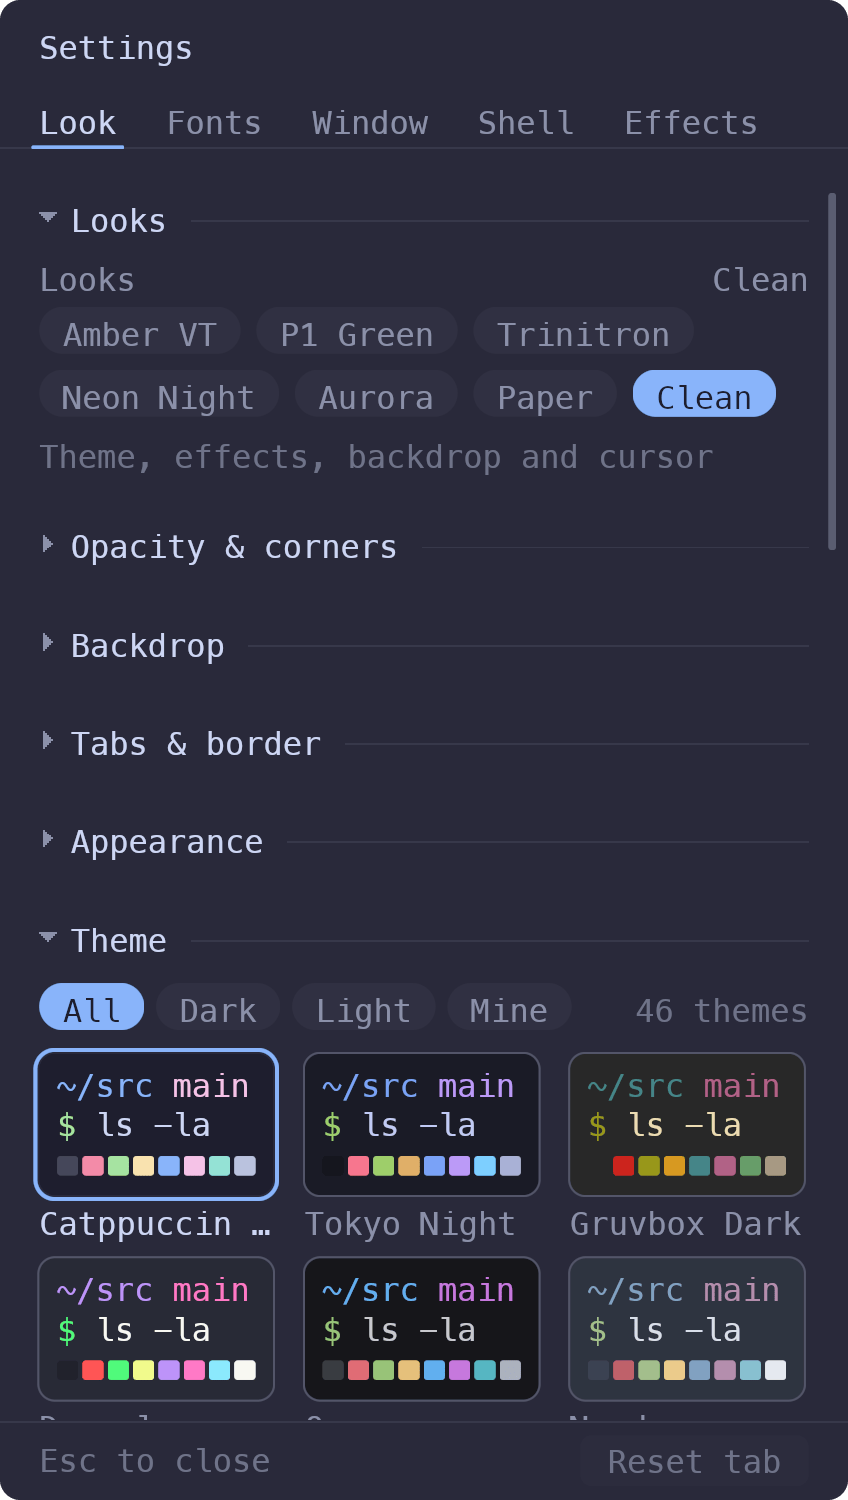
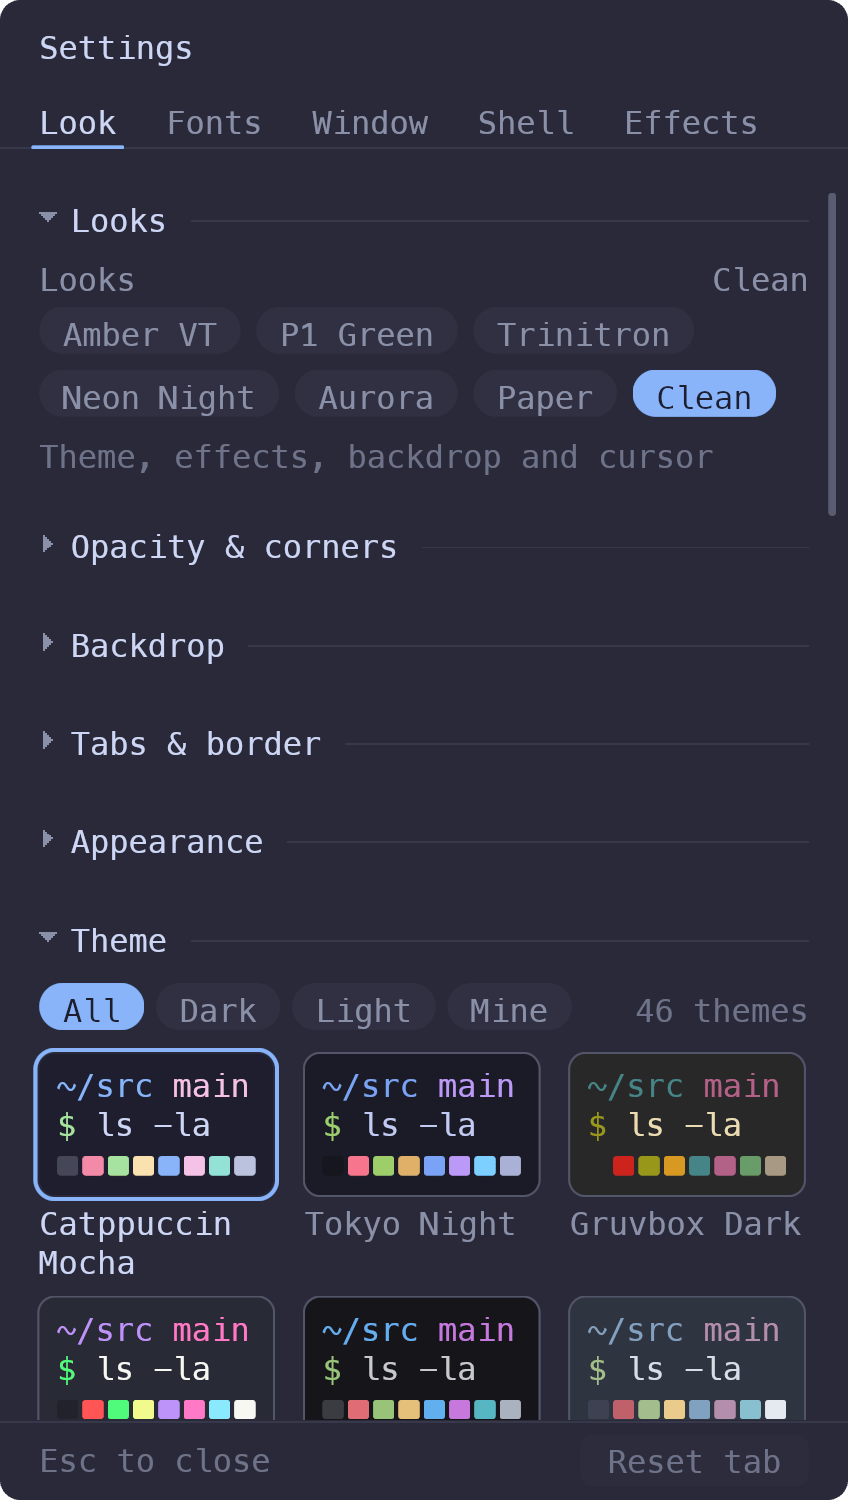
release: v0.28.0 — the fix-and-polish release (~60 fixes, OpenGL fallback, faster F9, cheaper frames)
See docs/release-notes/v0.28.0.md. Ten parallel reviews (renderer, VT,
shell/PTY, input, config, Settings, performance, selection, windows/Wayland,
visuals v2) — each fix with a test that failed first; integrated one branch
at a time with the full gate.

Checked live before tagging, on nested displays only: the release binary
on lavapipe Vulkan under KWin and on GL with no Vulkan ICD at all (renders,
"wgpu · OpenGL"), idle 0 ms CPU per 10 s on both; F9 from another focused
window takes the focus 6/6 under KWin. 1523 tests pass. The README's
Settings screenshot is re-rendered (wider steppers, full theme names).

Claude-Session: https://claude.ai/code/session_018rMtUwjGXA9PqrS7RQ15Qg

diff --git a/CHANGELOG.md b/CHANGELOG.md
@@ -7,6 +7,121 @@ and this project adheres to [Semantic Versioning](https://semver.org/spec/v2.0.0
 
 ---
 
+## [0.28.0] — 2026-10-09
+
+**The fix-and-polish release.** Ten parallel reviews of the whole codebase —
+renderer, terminal emulation, shell, input, config, Settings, performance,
+selection, windows and the v0.27 visuals — found and fixed about sixty bugs,
+including a crash that v0.27.0 has. JeTTY now also runs on machines without
+Vulkan, F9 is faster and always takes the keyboard focus, and every frame costs
+less CPU.
+
+### Added
+- **Runs without Vulkan:** on machines with no Vulkan driver (VMs, older GPUs,
+  software rendering) JeTTY draws through OpenGL 3.3 / OpenGL ES 3.0, on X11 and
+  Wayland — it used to open an unpainted window. Where the only Vulkan driver is
+  a software one (lavapipe) but the GPU has an OpenGL driver, JeTTY uses the GPU.
+  `WGPU_BACKEND=gl` forces OpenGL, e.g. around a broken Vulkan driver.
+- **Settings from the keyboard:** Tab / Shift+Tab move through every control,
+  arrows adjust, Space / Enter toggle or press; palette links leave the focus on
+  their control.
+- **Tabs:** drag a tab along the bar to reorder it, scroll the mouse wheel over
+  the bar to switch tabs, middle-click a tab to close it.
+- **Copy-mode `Ctrl+V`** selects a rectangle; `v` / `V` / `Ctrl+V` switch kinds
+  keeping the anchor.
+- Double-clicking a URL selects the whole URL.
+- Ctrl-hovering a hyperlink whose text hides its real address shows where a
+  click would go.
+- `jetty --check-config` lists every config and theme problem; a configuration
+  reference, `docs/configuration.md`, covers every key (checked against the code
+  by a test).
+- Terminal: programs that ask which terminal this is (`CSI > q`: tmux,
+  notcurses, yazi…) are told `JeTTY(<version>)`; reverse-video screen mode
+  (`CSI ? 5 h` — vim's `visualbell`, terminfo `flash`); sixel support is
+  reported to programs that probe for it (lsix, tmux 3.4+); modes 47 / 1047 /
+  1048.
+- powerlevel10k: the integration line turns on p10k's own prompt marks — no
+  need to edit `~/.p10k.zsh` (a setting there is respected).
+- Picking the same backdrop image again reloads it if the file changed.
+
+### Changed
+- **Faster F9:** the summon hotkey no longer wakes JeTTY 20 times a second, and
+  F9 shows / hides the window up to 50 ms sooner (hide: 46 → 3 ms).
+- **Faster start, less memory on multi-GPU laptops:** JeTTY no longer loads
+  Vulkan drivers for GPUs it won't use (GPU setup 74 → 20 ms, ~90 MB less memory;
+  the NVIDIA GPU is left alone under the default low-power pick), and wgpu no
+  longer compiles unused validation shaders (~2 ms).
+- **Cheaper frames:** the terminal snapshot costs about half as much, and the tab
+  bar, status bar and cursor/scrollbar layer draw in one pass (a 240×70 typing
+  frame: 0.51 → 0.43 ms CPU). Large PNG backdrops load with about half the
+  memory.
+- `$SHELL` inside JeTTY names the shell JeTTY runs, so tmux, `vim :sh` and
+  `sudo -s` open the same shell.
+- Config values are read in any letter case (`tab_style = "Underline"`); unknown
+  or misspelled keys, values, theme and font names are reported with the closest
+  valid spelling (an unknown value no longer resets the live setting on reload);
+  out-of-range numbers are reported; TOML errors give line and column. Themes can
+  be named the way Settings shows them (`"Solarized Light"`).
+- The command palette ranks a command's exact name first, then whole-word
+  matches, then scattered letters.
+- Release builds' `jetty --version` names their commit instead of "dev".
+- The welcome screen's tip points at the command palette shortcut.
+
+### Fixed
+- **Crashes and hangs:** JeTTY could crash when a program scrolled a region
+  below a fixed top line while you were scrolled back (v0.27.0 too), and the view
+  drifted up a line per scroll. A new tab from a directory on a dead network
+  mount froze JeTTY. A shell that dies right after starting (a broken `~/.zshrc`)
+  closed JeTTY — its error now stays on screen and the next available shell
+  opens. With no usable GPU, or no shell at all, JeTTY ran invisibly or exited
+  "successfully" — it now says what to fix and exits with status 1.
+- **F9 and windows:** under KWin, F9 could bring JeTTY to the front while your
+  typing still went to the previous window. Changing the display scale and back
+  shrank windows (to 379×213 in a corner). On Wayland, hiding left a frozen
+  window on screen. At the minimum window width the tab ran under the window
+  controls.
+- **Keyboard and mouse:** Ctrl with punctuation on non-US layouts sent the US
+  key's control code — Ctrl+; on Turkish-Q and Ctrl+# on German sent SIGQUIT to
+  the running program. A click on the status strip clicked the program's bottom
+  row (htop's F9 Kill / F10 Quit). A `[keys]` binding couldn't take another
+  action's default shortcut depending on declaration order. F13–F24 showed as
+  "Unknown".
+- **Shell integration:** Enter on an empty prompt after a failed command marked
+  that prompt failed (powerlevel10k, bash); bash users' own `PROMPT_COMMAND`
+  hooks always saw success. Pastes over 64 MiB vanished.
+- **Terminal emulation:** color queries (OSC 4/10/11/12) reported the theme's
+  colors after a program set its own (neovim, bat, delta picked the wrong
+  background); deleting characters past the line end erased text left of the
+  cursor; editing through half of a wide character left the other half behind;
+  copying a row whose wide character wrapped pasted a wrong character; cursor
+  motion at the margins and after a full line now follows xterm; replies inside
+  a synchronized update keep their order.
+- **Rendering:** translucent themes on OpenGL; CRT, the CRT Looks and the aurora
+  backdrop went black on GPUs that can't render half-float textures; a GPU error
+  repeating every frame flooded the log. Animated backdrops redrew the whole
+  background on every frame while typing; phone photos showed sideways (EXIF);
+  in Dropdown mode the Phosphor glow, window border, bell rim and command pulse
+  drew outside the sliding window; turning CRT off freed none of its GPU memory
+  (~10 MB). A `font_family` that isn't installed rendered the grid in a
+  proportional font — JeTTY now falls back to a monospace one.
+- **Selection, search, copy-mode:** a search with thousands of matches jumped
+  far up into history; a selected wide character was highlighted on one half;
+  copy-mode treated wide characters as two cells, hid the cursor under its pill,
+  left the view in history on exit and lost the cursor on resize; pasting while
+  scrolled back didn't jump to the prompt; Run in New Tab kept the border of an
+  indented box; hint mode split quoted paths and UUIDs.
+- **Config and themes:** a theme file broken mid-edit flipped the terminal to the
+  default theme (the last good version stays now); Settings could replace a
+  read-only `config.toml`; editing `summon_hotkey` while running did nothing
+  visible (it now says it needs a restart).
+- **Settings, palette, help:** the font-size steppers cut their value at 1.25×
+  and 1.5×; a narrow Settings window overlapped its controls and hid tabs; the
+  theme gallery showed 46 themes under 38 names; palette links to a control
+  hidden in the current mode landed on nothing; touchpad scrolling in the palette
+  and font lists raced or stalled; "Open Settings…" didn't bring an open Settings
+  window forward; the help overlay's dividers struck through its headings; the
+  welcome splash didn't scale on HiDPI.
+
 ## [0.27.0] — 2026-10-09
 
 **Visuals v2.** One-click Looks, new themes, a background layer, a faster and

diff --git a/docs/release-notes/v0.28.0.md b/docs/release-notes/v0.28.0.md
@@ -1,0 +1,65 @@
+# JeTTY v0.28.0
+
+**The fix-and-polish release: about sixty bugs fixed, JeTTY runs without
+Vulkan, F9 is faster and always takes the focus, and every frame costs less
+CPU.**
+
+Ten parallel reviews went through the whole codebase — renderer, terminal
+emulation, shell, input, config, Settings, performance, selection, windows and
+the v0.27 visuals. Every fix comes with a test that failed before it.
+
+## Highlights
+
+- **Runs without Vulkan.** On VMs, older GPUs and software rendering JeTTY now
+  draws through OpenGL 3.3 / OpenGL ES 3.0 on X11 and Wayland — before, it
+  opened an unpainted window. `WGPU_BACKEND=gl` forces OpenGL.
+- **Faster F9, always focused.** The hotkey no longer polls 20 times a second;
+  hiding takes 3 ms instead of up to 50. Under KWin, F9 could bring JeTTY to the
+  front while your typing still went to the previous window — fixed.
+- **Faster start, less memory on multi-GPU laptops.** JeTTY no longer loads
+  Vulkan drivers for GPUs it won't use: GPU setup 74 → 20 ms, ~90 MB less
+  memory, and the NVIDIA GPU is left alone.
+- **Cheaper frames.** The terminal snapshot costs half as much and the tab bar
+  and status bar draw in one pass.
+- **Settings from the keyboard.** Tab to any control, arrows to adjust,
+  Space / Enter to toggle.
+- **Tabs:** drag to reorder, wheel over the bar to switch, middle-click to close.
+- **`jetty --check-config`** and a reference for every key,
+  [docs/configuration.md](https://github.com/bozdemir/JeTTY/blob/v0.28.0/docs/configuration.md);
+  typos are reported with the closest valid spelling.
+
+## Fixed, among others
+
+- A crash when a program scrolled a region while you were scrolled back
+  (present in v0.27.0).
+- Ctrl+; on Turkish-Q (and Ctrl+# on German) sent SIGQUIT to the running
+  program.
+- Enter on an empty prompt after a failed command marked the prompt failed
+  (powerlevel10k, bash).
+- `$SHELL` inside JeTTY named the login shell instead of the one JeTTY runs.
+- Changing the display scale and back shrank the window into a corner.
+- A new tab from a directory on a dead network mount froze JeTTY.
+- Turning CRT off didn't free its GPU memory; animated backdrops redrew on every
+  keystroke; phone photos showed sideways.
+- Color queries ignored colors a program had set (neovim, bat, delta picked the
+  wrong background).
+
+Full list: [CHANGELOG](https://github.com/bozdemir/JeTTY/blob/v0.28.0/CHANGELOG.md).
+
+## Install
+
+```bash
+curl -fsSL https://raw.githubusercontent.com/bozdemir/JeTTY/main/install.sh | sh
+```
+
+Or a `.deb` / **AppImage** from the assets below (the installer verifies
+`SHA256SUMS.txt`). Build from source: `cargo build --release`.
+
+## Artifacts
+
+| File | What |
+|---|---|
+| `jetty-0.28.0-x86_64-linux.tar.gz` | Portable Linux binary + assets |
+| `jetty_0.28.0_amd64.deb` | Debian / Ubuntu package |
+| `JeTTY-0.28.0-x86_64.AppImage` | Universal Linux AppImage |
+| `SHA256SUMS.txt` | Checksums |
